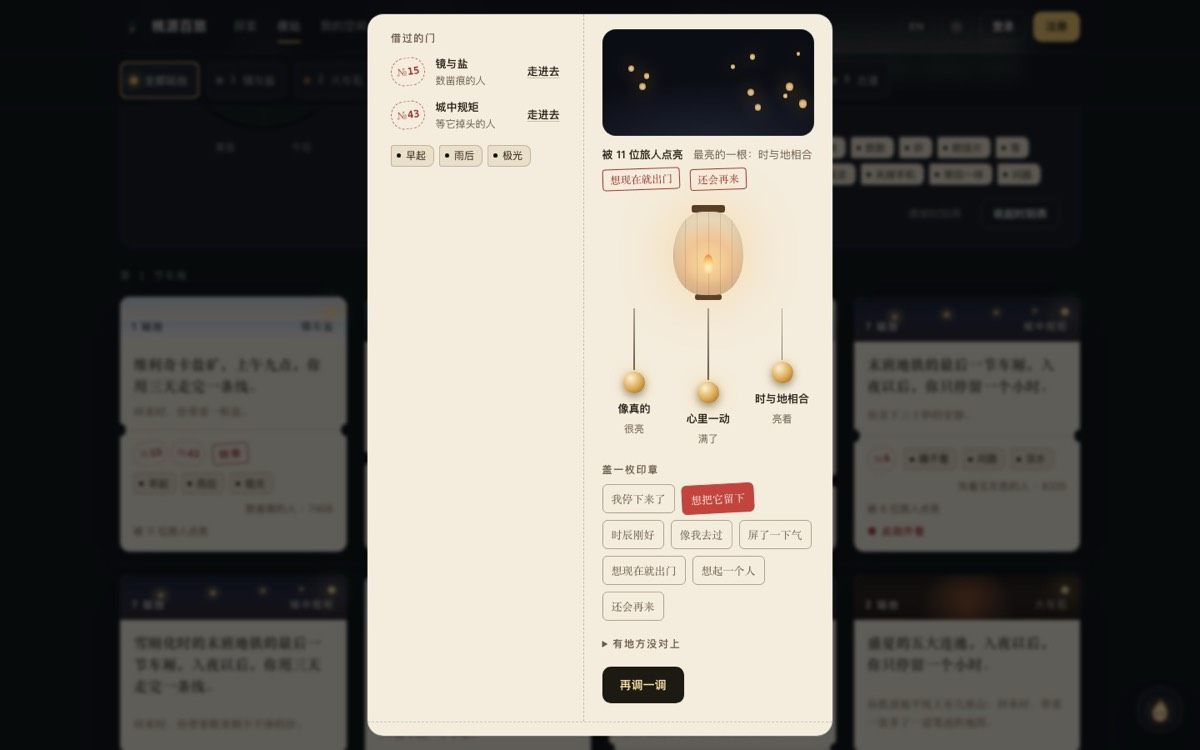
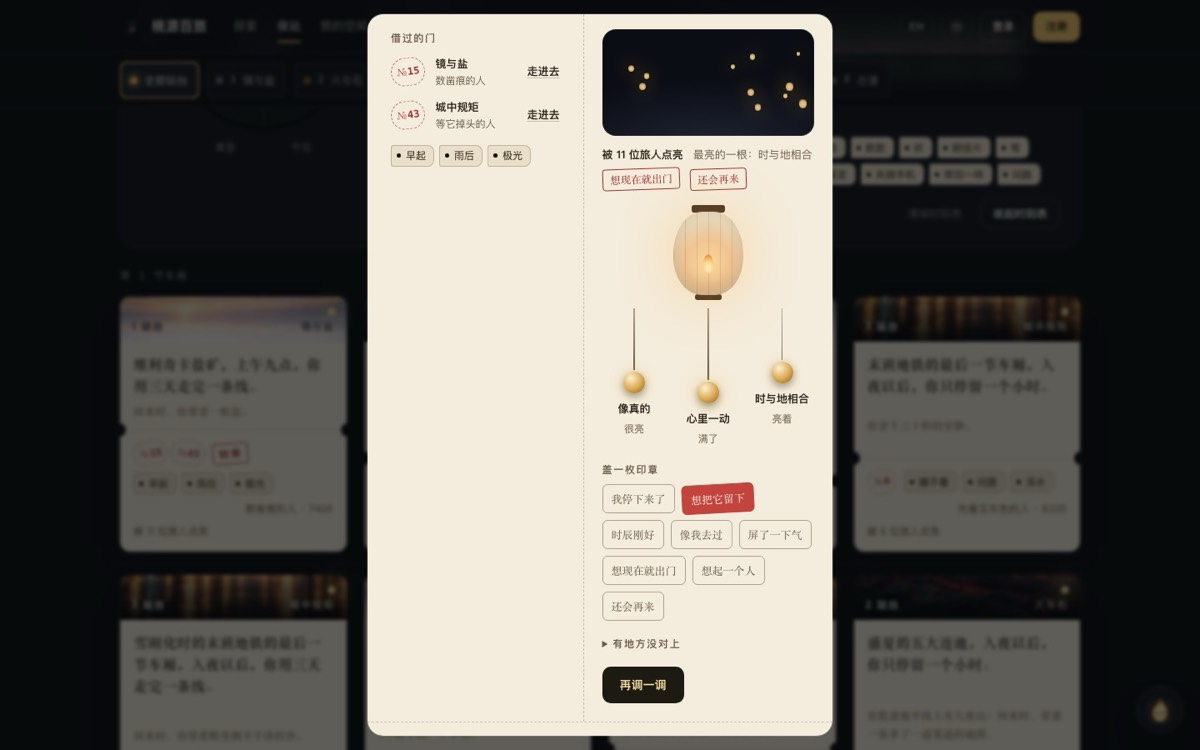
road: the night hall, realm strips and carved stone
- #/station's header shows the empty concourse at night (a 4:5 crop on
  phones) under the hall's hour light and a scrim on the title side; it
  is only fetched in the dark theme and follows theme switches. By day the
  hall stays painted in CSS.
- Ticket stubs carry their realm's sky strip, with a firmer scrim where
  the strip is bright low down and ink labels on the pale ones.
- The rubbing's relief sits on a carved stone texture, multiplied into the
  charcoal by day and soft-lit into the lamp ash at night; it loads lazily
  at the 960 size.
- Screenshots refreshed.

diff --git a/web/css/components/road.css b/web/css/components/road.css
@@ -74,11 +74,17 @@ button.ltag[aria-pressed="true"] { background: var(--color-action); color: var(-
   background: var(--realm-art, linear-gradient(180deg, #2a2f3a, #444b58)); color: var(--color-on-media);
   font-size: 12px; letter-spacing: .12em;
 }
-.stub__band::after { content: ""; position: absolute; inset: auto 0 0; height: 60%; background: linear-gradient(0deg, rgba(0, 0, 0, .45), transparent); z-index: 0; }
+.stub__band::after { content: ""; position: absolute; inset: 0; background: linear-gradient(0deg, rgba(0, 0, 0, .64) 0, rgba(0, 0, 0, .3) 55%, rgba(0, 0, 0, .05)); z-index: 0; }
 .stub__band > * { position: relative; z-index: 1; text-shadow: 0 1px 2px rgba(0, 0, 0, .5); }
+/* The realm's sky strip; the gradient underneath shows until it arrives. */
+/* picture is display: contents (global.css), so the img is the box. */
+.stub__band .stub__art { position: absolute; inset: 0; z-index: 0; width: 100%; height: 100%; object-fit: cover; display: block; }
+.stub__band source { display: none; } /* not a flex item: the labels keep to the band's edges */
+/* Bright detail low in the strip (street-lamp reflections, a pale flagstone edge) gets a firmer scrim. */
+.stub:is([data-realm="city-rules"], [data-realm="old-roads"]) .stub__band::after { background: linear-gradient(0deg, rgba(0, 0, 0, .78) 0, rgba(0, 0, 0, .42) 60%, rgba(0, 0, 0, .08)); }
 /* Pale skies (salt, mist) carry ink instead of light. */
 :is([data-realm="mirror-salt"], [data-realm="mist-temple"]) > .stub__band, .stub:is([data-realm="mirror-salt"], [data-realm="mist-temple"]) .stub__band { color: #22252b; }
-.stub:is([data-realm="mirror-salt"], [data-realm="mist-temple"]) .stub__band::after { background: linear-gradient(0deg, rgba(255, 255, 255, .45), transparent); }
+.stub:is([data-realm="mirror-salt"], [data-realm="mist-temple"]) .stub__band::after { background: linear-gradient(0deg, rgba(255, 255, 255, .72) 0, rgba(255, 255, 255, .34) 60%, rgba(255, 255, 255, .06)); }
 .stub:is([data-realm="mirror-salt"], [data-realm="mist-temple"]) .stub__band > * { text-shadow: none; }
 .stub:is([data-realm="mirror-salt"], [data-realm="mist-temple"]) .stub__glow[data-lit="false"] { box-shadow: inset 0 0 0 1.5px rgba(34, 37, 43, .55); }
 :lang(en) .stub__band { letter-spacing: .08em; text-transform: uppercase; font-size: 12px; }
@@ -287,6 +293,10 @@ button.ltag[aria-pressed="true"] { background: var(--color-action); color: var(-
   color: var(--mark);
 }
 :root:not([data-theme="light"]) .rubbing__relief { --dust: #4a3c22; --mark: #f3e6c4; background: radial-gradient(circle at 30% 20%, rgba(242, 196, 109, .22), transparent 55%), repeating-linear-gradient(115deg, rgba(242, 196, 109, .06) 0 2px, transparent 2px 6px), var(--dust); }
+/* The carved stone under the dust: a greyscale texture, tinted by the dust colour of the theme. */
+.rubbing__relief .rubbing__texture { position: absolute; inset: 0; z-index: 0; width: 100%; height: 100%; object-fit: cover; display: block; mix-blend-mode: multiply; opacity: .6; }
+:root:not([data-theme="light"]) .rubbing__relief .rubbing__texture { mix-blend-mode: soft-light; opacity: .85; }
+.rubbing__relief > :not(picture) { position: relative; z-index: 1; }
 .rubbing__no { font-family: var(--font-story); font-size: clamp(3rem, 2rem + 4vw, 4.5rem); font-weight: 700; line-height: 1; letter-spacing: .02em; text-shadow: 0 1px 0 rgba(0, 0, 0, .4), 0 -1px 0 rgba(255, 255, 255, .08); }
 .rubbing__no span { font-size: .45em; margin-right: 4px; vertical-align: .6em; opacity: .8; }
 .rubbing__line { font-family: var(--font-story); font-size: var(--text-md); letter-spacing: .3em; opacity: .9; }

diff --git a/web/js/pages/station.js b/web/js/pages/station.js
@@ -34,6 +34,7 @@ Pages.Station = {
     main.innerHTML = `
       <div class="page station" data-hour="${esc(this._filters.hour || hour)}">
         <header class="station__hall">
+          <div class="station__art" id="station-art" aria-hidden="true"></div>
           <div class="container station__hall-inner">
             <div class="flapboard" role="img" aria-label="${esc(t('station.clockAria', { time: `${hhmm.slice(0, 2)}:${hhmm.slice(2)}`, hour: t(`entrance.time.${hour}`) }))}">
               <span class="flapboard__time">${[...hhmm].map((d, i) => `${i === 2 ? '<i class="flapboard__colon">:</i>' : ''}<span class="flap" style="--k:${i}"><span>${d}</span></span>`).join('')}</span>
@@ -67,6 +68,7 @@ Pages.Station = {
         </div>
       </div>`;
     API.track('station_enter', '', { hour });
+    this._hallArt();
     this._renderSigns(); // platforms and the order board need no data: no jump when the racks arrive
     Promise.all([Compose.fragments(), Road.vocab()])
       .then(([list, vocab]) => {
@@ -98,6 +100,31 @@ Pages.Station = {
   _teardown() {
     this._cleanup.forEach((fn) => fn());
     this._cleanup = [];
+  },
+
+  /** The empty concourse at night behind the hall's header (a phone crop on narrow screens). By
+   *  day the hall stays painted in CSS, so the photograph is only fetched in the dark theme. */
+  _hallArt() {
+    const put = () => {
+      const box = document.getElementById('station-art');
+      if (!box) return;
+      const dark = document.documentElement.getAttribute('data-theme') !== 'light';
+      if (!dark) { box.innerHTML = ''; return; }
+      if (box.firstChild) return;
+      const src = (name) => API.mediaUrl(`generated/road/${name}`);
+      const esc = UI.esc;
+      box.innerHTML = `
+        <picture>
+          <source media="(max-width: 760px)" type="image/avif" srcset="${esc(src('station-hall-night-phone.600.avif'))} 600w, ${esc(src('station-hall-night-phone.1024.avif'))} 1024w" sizes="100vw">
+          <source media="(max-width: 760px)" srcset="${esc(src('station-hall-night-phone.jpg'))}">
+          <source type="image/avif" srcset="${esc(src('station-hall-night.960.avif'))} 960w, ${esc(src('station-hall-night.1536.avif'))} 1536w" sizes="100vw">
+          <img src="${esc(src('station-hall-night.jpg'))}" alt="" width="960" height="300" decoding="async" fetchpriority="high">
+        </picture>`;
+    };
+    put();
+    const watch = new MutationObserver(put);
+    watch.observe(document.documentElement, { attributes: true, attributeFilter: ['data-theme'] });
+    this._cleanup.push(() => watch.disconnect());
   },
 
   _read(query) {

diff --git a/web/js/road/road.js b/web/js/road/road.js
@@ -22,6 +22,10 @@ const Road = (() => {
   const HOURS = ['predawn', 'dawn', 'morning', 'noon', 'afternoon', 'dusk', 'blue-hour', 'night', 'midnight'];
   const SEASONS = ['spring', 'summer', 'autumn', 'winter', 'rainy', 'dry', 'polar-night', 'midnight-sun'];
   const platform = (realm) => REALMS.indexOf(realm) + 1;
+  /** The realm's sky across the top of a stub (an AVIF strip; the CSS gradient shows until it loads). */
+  const bandArt = (realm) => (REALMS.includes(realm)
+    ? UI.picture(API.mediaUrl(`generated/road/realm-band-${realm}.jpg`), { sizes: '(max-width: 760px) 92vw, 320px', cls: 'stub__art', width: 600, height: 130 })
+    : '');
   const realmLabel = (realm) => (realm ? t(`entrance.realm.${realm}`) : '');
 
   /** The hour bucket of the viewer's own clock. Only the bucket ever leaves the device. */
@@ -272,6 +276,7 @@ const Road = (() => {
     return `
       <article class="stub${mini ? ' stub--mini' : ''}" data-code="${esc(v.code)}" ${realm ? `data-realm="${esc(realm)}"` : ''}>
         <span class="stub__band" aria-hidden="true">
+          ${bandArt(realm)}
           <span class="stub__platform num">${realm ? esc(t('station.platform.no', { n: platform(realm) })) : ''}</span>
           <span class="stub__realm">${esc(realmLabel(realm))}</span>
         </span>
@@ -313,7 +318,7 @@ const Road = (() => {
           <div class="ticket-open__card">
             <div class="ticket-open__face ticket-open__front" aria-hidden="true">
               <div class="stub stub--static" data-realm="${esc(v.realm || '')}">
-                <span class="stub__band"><span class="stub__platform num">${v.realm ? esc(t('station.platform.no', { n: platform(v.realm) })) : ''}</span><span class="stub__realm">${esc(realmLabel(v.realm))}</span></span>
+                <span class="stub__band">${bandArt(v.realm)}<span class="stub__platform num">${v.realm ? esc(t('station.platform.no', { n: platform(v.realm) })) : ''}</span><span class="stub__realm">${esc(realmLabel(v.realm))}</span></span>
                 <span class="stub__body"><span class="stub__title">${s.title}</span>${s.story ? `<span class="stub__story">${s.story}</span>` : ''}</span>
                 ${v.picks && v.picks.hour ? `<span class="stub__hole">${punch(v.picks.hour)}</span>` : ''}
               </div>

diff --git a/web/css/pages/station.css b/web/css/pages/station.css
@@ -38,6 +38,18 @@
 }
 [data-theme="light"] .station__hall::after { opacity: .25; }
 .station__hall-inner { position: relative; z-index: 1; display: grid; justify-items: start; gap: 12px; }
+/* The night concourse sits under the hall's light: the hour still tints the room, the title side
+   stays dark enough to read, and the picture fades into the page below. */
+.station__art { position: absolute; inset: 0; z-index: 0; pointer-events: none; }
+.station__art img { position: absolute; inset: 0; width: 100%; height: 100%; object-fit: cover; object-position: 60% 50%; display: block; }
+.station__art::after {
+  content: ""; position: absolute; inset: 0;
+  background:
+    radial-gradient(70% 120% at 50% -10%, var(--hall-glow), transparent 60%),
+    linear-gradient(90deg, rgba(5, 7, 11, .9) 0, rgba(5, 7, 11, .62) 42%, rgba(5, 7, 11, .18) 78%, rgba(5, 7, 11, .1)),
+    linear-gradient(0deg, var(--station-bg) 0, transparent 38%);
+}
+.station__art:empty { display: none; }
 .station__title { font-family: var(--font-story); font-size: clamp(2.5rem, 1.6rem + 3.6vw, 4.25rem); font-weight: 700; line-height: 1.05; letter-spacing: .04em; color: var(--color-text); }
 :lang(en) .station__title { letter-spacing: -.015em; }
 .station__lead { max-width: 30em; font-family: var(--font-story); font-size: var(--text-lg); line-height: 1.6; color: var(--color-text-2); }
@@ -152,6 +164,8 @@
 }
 @media (max-width: 760px) {
   .station__hall { padding: var(--space-6) 0 var(--space-5); }
+  .station__art img { object-position: 50% 40%; }
+  .station__art::after { background: radial-gradient(90% 80% at 50% -10%, var(--hall-glow), transparent 60%), linear-gradient(0deg, var(--station-bg) 0, rgba(5, 7, 11, .7) 45%, rgba(5, 7, 11, .45)); }
   .flap { min-width: 24px; height: 34px; font-size: 20px; }
   .flap--word { font-size: 15px; }
   .station__bar { grid-template-columns: minmax(0, 1fr) auto; }

diff --git a/web/js/road/rubbing.js b/web/js/road/rubbing.js
@@ -49,6 +49,7 @@ const Rubbing = (() => {
           ${already ? '' : `<p class="sr-only" id="rub-lead">${esc(t(motion() ? 'rub.lead' : 'rub.leadHold'))}</p>`}
           <div class="rubbing__stone" data-realm="${esc(journey.entrance.realm)}">
             <div class="rubbing__relief">
+              ${UI.picture(API.mediaUrl('generated/road/rubbing-stone.jpg'), { sizes: '480px', cls: 'rubbing__texture', width: 960, height: 360 })}
               <p class="rubbing__no num"><span>№</span>${no}</p>
               <p class="rubbing__line">${esc(journey.content.role)}</p>
               <ul class="rubbing__slips">

diff --git a/docs/design/ticket-road/README.md b/docs/design/ticket-road/README.md
@@ -3,7 +3,9 @@
 Travellers rub slips from the doors they walk, piece tickets from them, hang them at the Night
 Station and by the doors they borrowed from, and light each other's tickets and the authored
 journeys. Local dev data (seeded travellers, aged accounts), Chromium 1440×900 and 390×844,
-reduced motion on for the captures.
+reduced motion on for the captures. The night hall, the realm strips on the stubs and the carved
+stone under the rubbing are the images in `web/assets/images/generated/road/`; by day the hall
+stays painted in CSS.
 
 | | Dark · 中文 | Light · English |
 |---|---|---|
